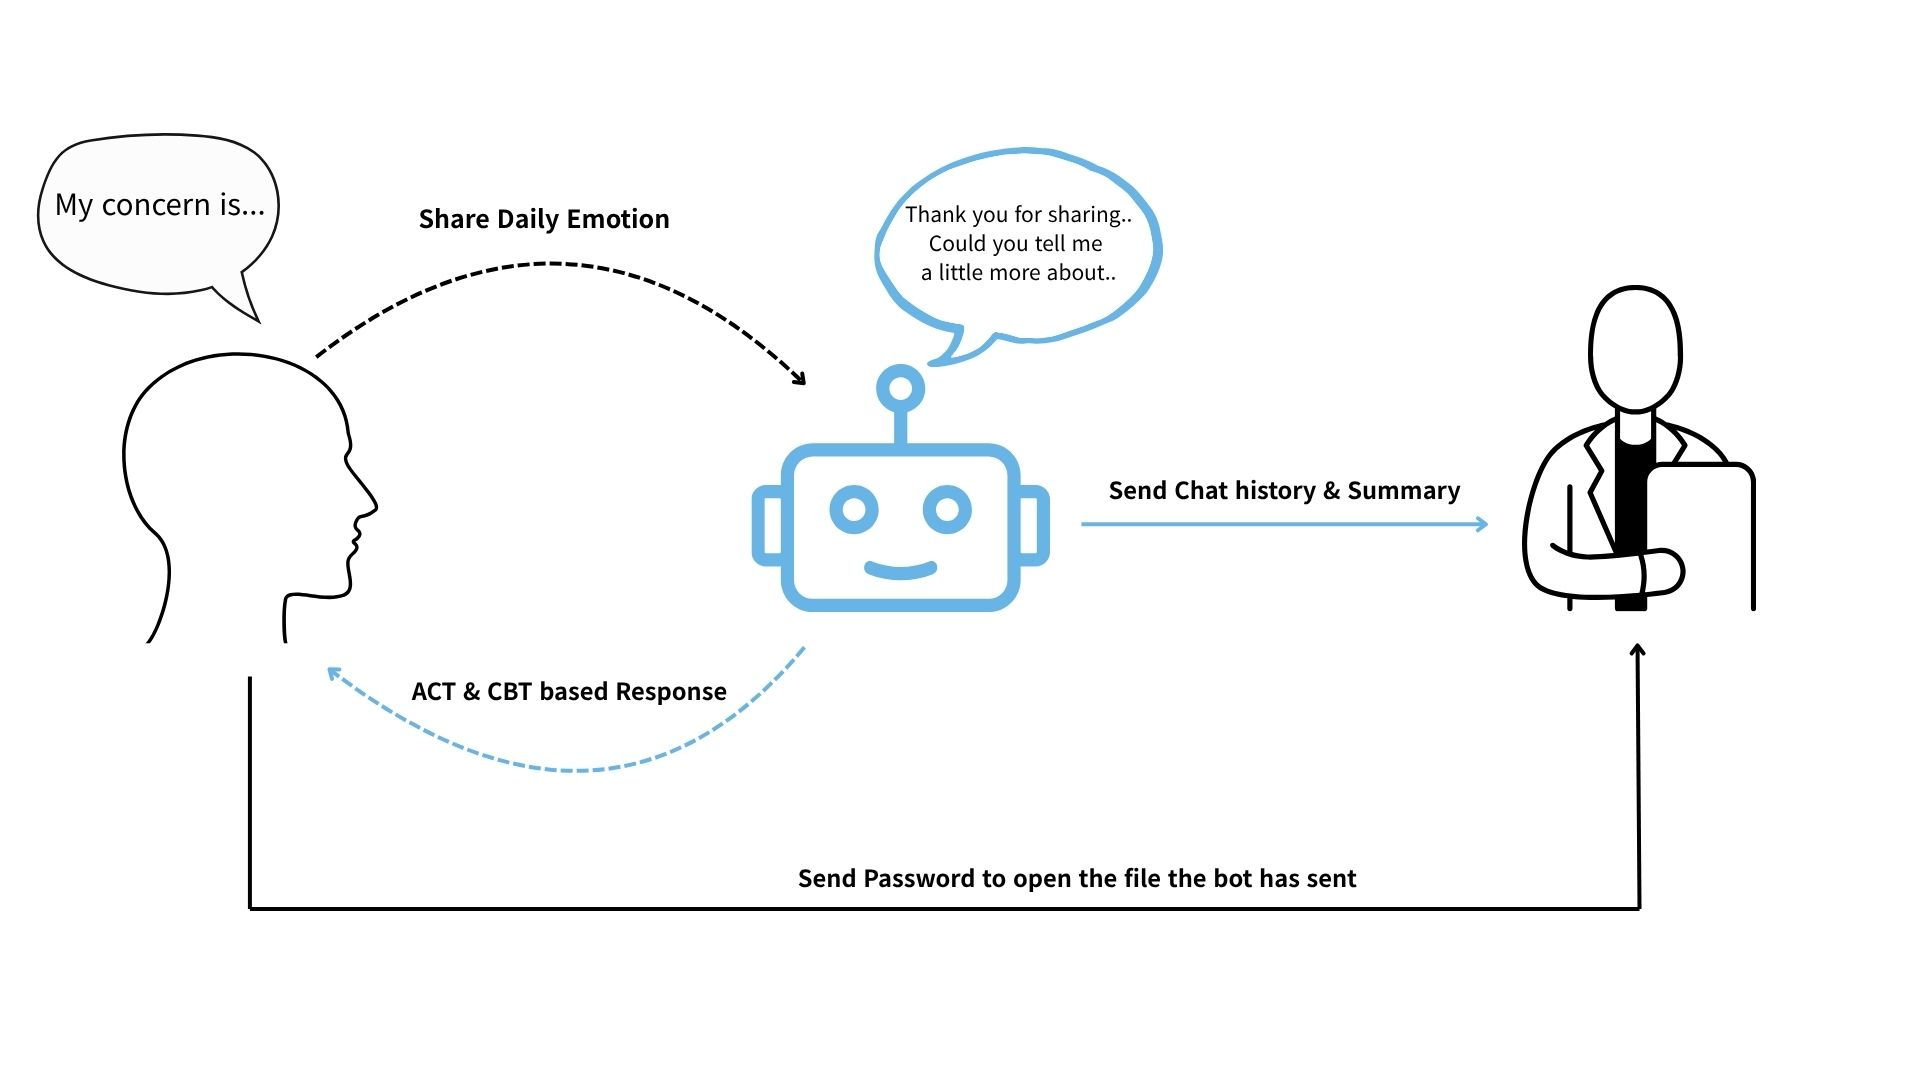
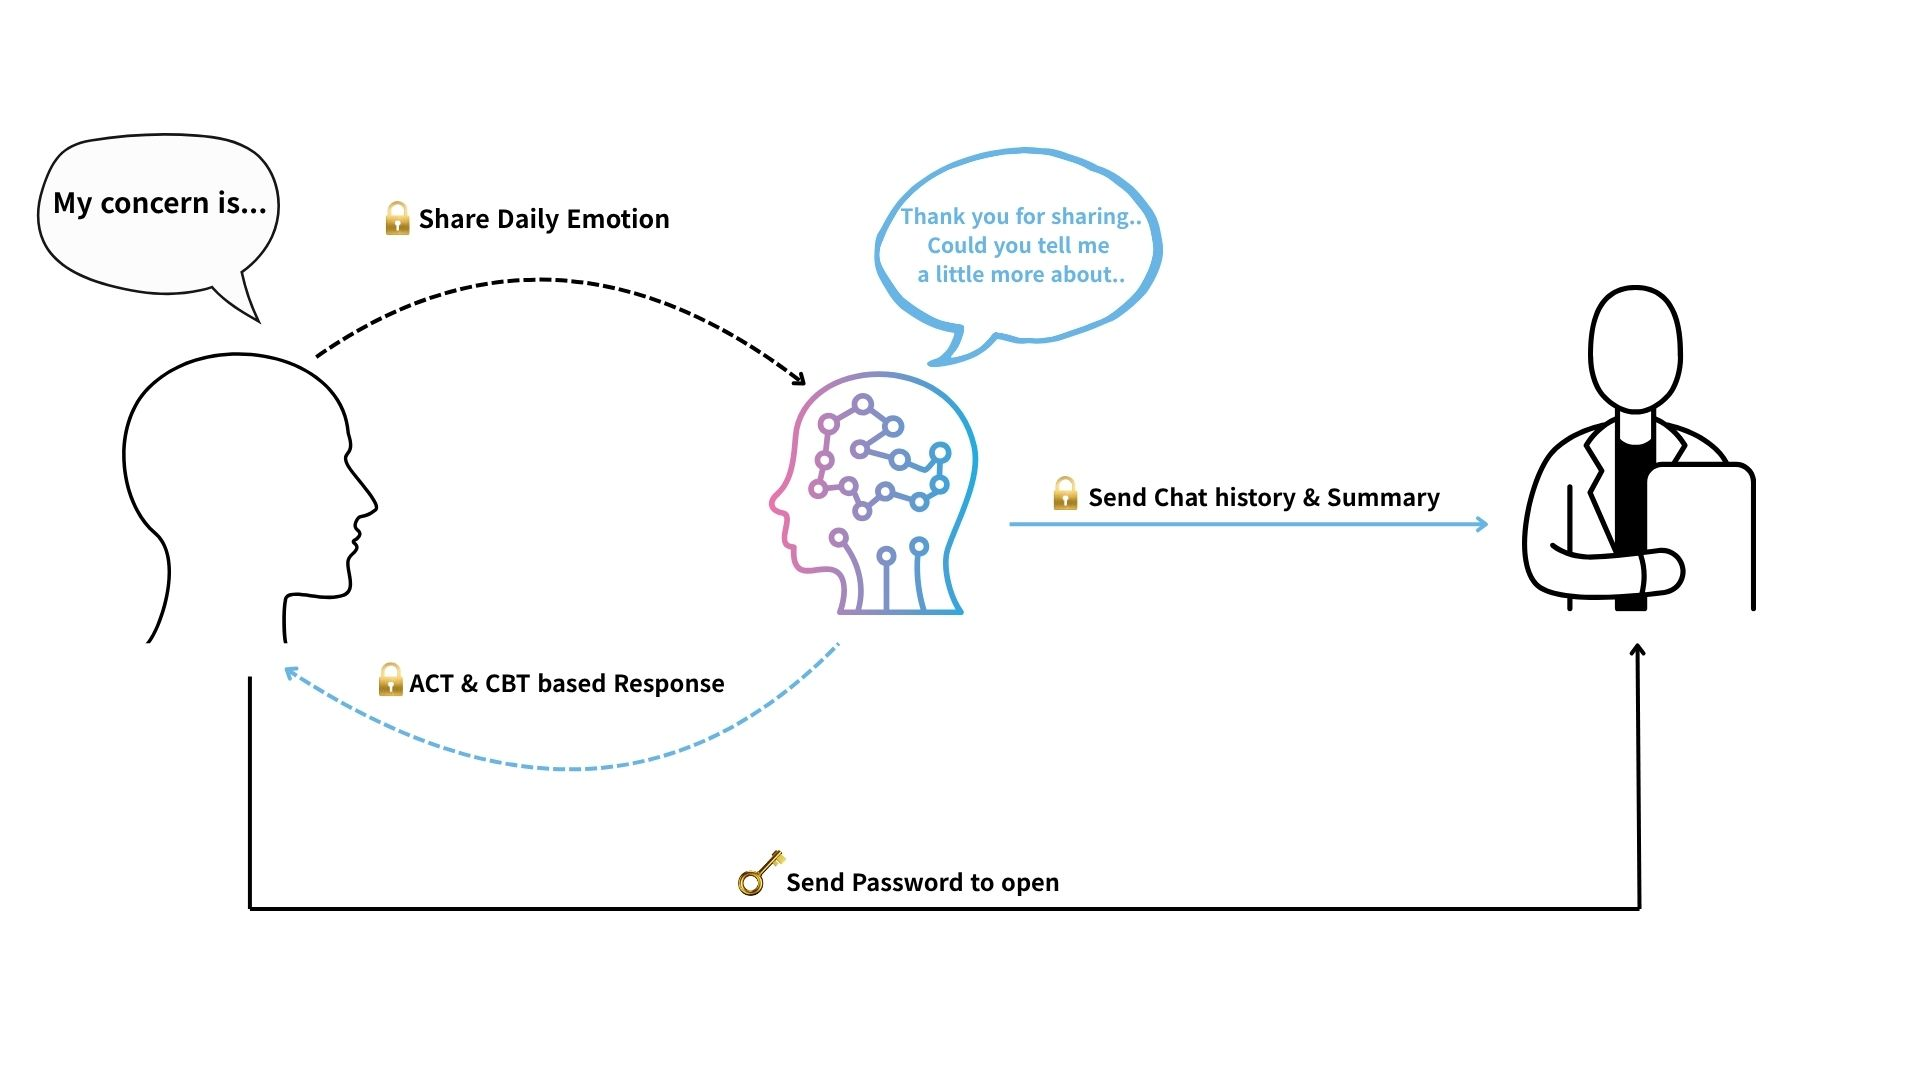
readme

diff --git a/README.md b/README.md
@@ -3,7 +3,7 @@
 
 This project is an AI-powered counseling Telegram chatbot based on **Acceptance and Commitment Therapy (ACT)** and **Cognitive Behavioral Therapy (CBT)**. All conversations with the user are protected with end-to-end encryption, and users can securely share their counseling records with a professional counselor whenever they choose.
 
-You can find me in Telegram: search Elogchatbot or @Gin_goldbot
+✅ You can find me in ✨Telegram✨ ➡ Search **Elogchatbot** or **@Gin_goldbot**
 
 <img src="./images/explanation.jpg" width="800">
 
@@ -11,7 +11,7 @@ You can find me in Telegram: search Elogchatbot or @Gin_goldbot
 
   * **AI-Powered Counseling**: Provides interactive, conversational counseling based on ACT/CBT principles using OpenAI's language models.
   * **Robust Security**:
-      * **Conversation Encryption**: All conversations are encrypted using the AES-GCM algorithm before being stored on the server, ensuring that even server administrators cannot view the content. <암호화 단계 이미지화 하기>
+      * **Conversation Encryption**: All conversations are encrypted using the AES-GCM algorithm before being stored on the server, ensuring that even server administrators cannot view the content.
       * **Data Integrity**: A Hash Chain is implemented to prevent any tampering or alteration of the conversation logs.
   * **Secure Log Sharing**:
       * Users can export their conversation history from a specified period, along with an AI-generated summary, into a single ZIP file.
